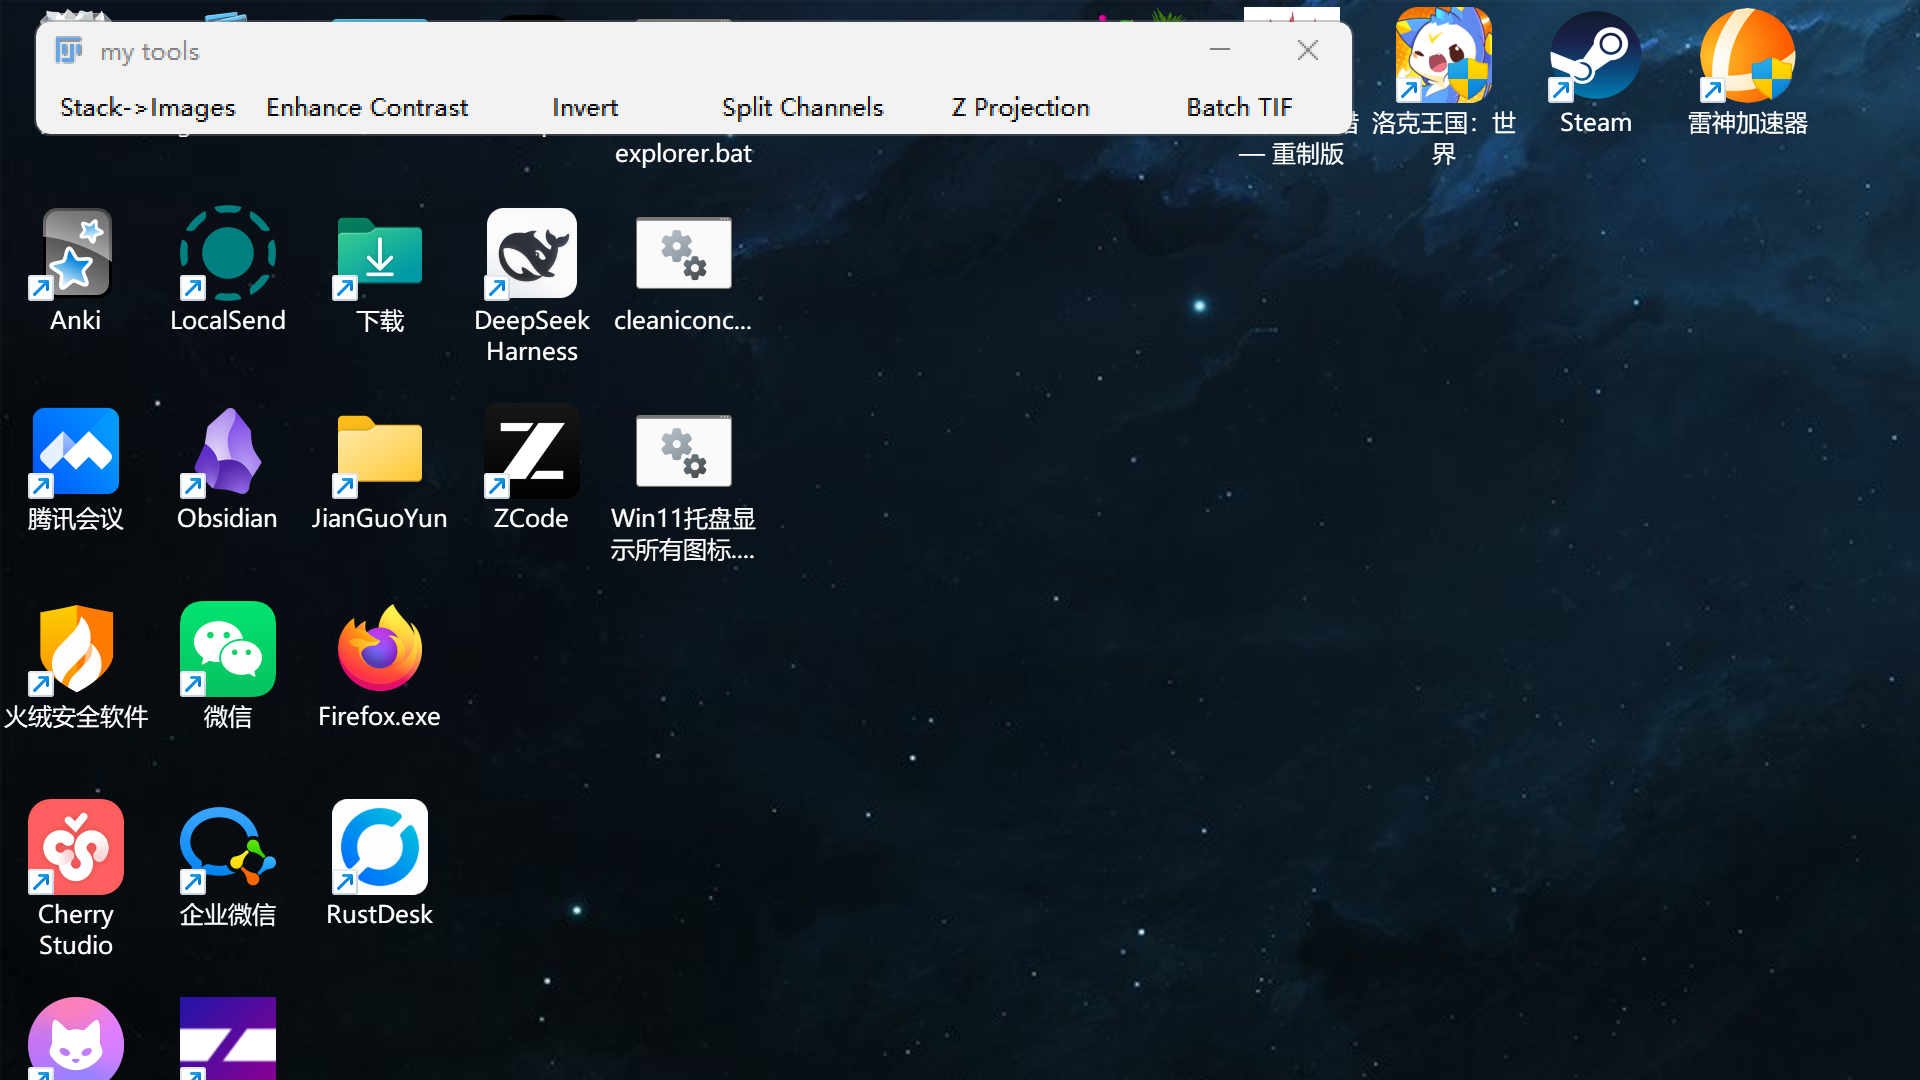
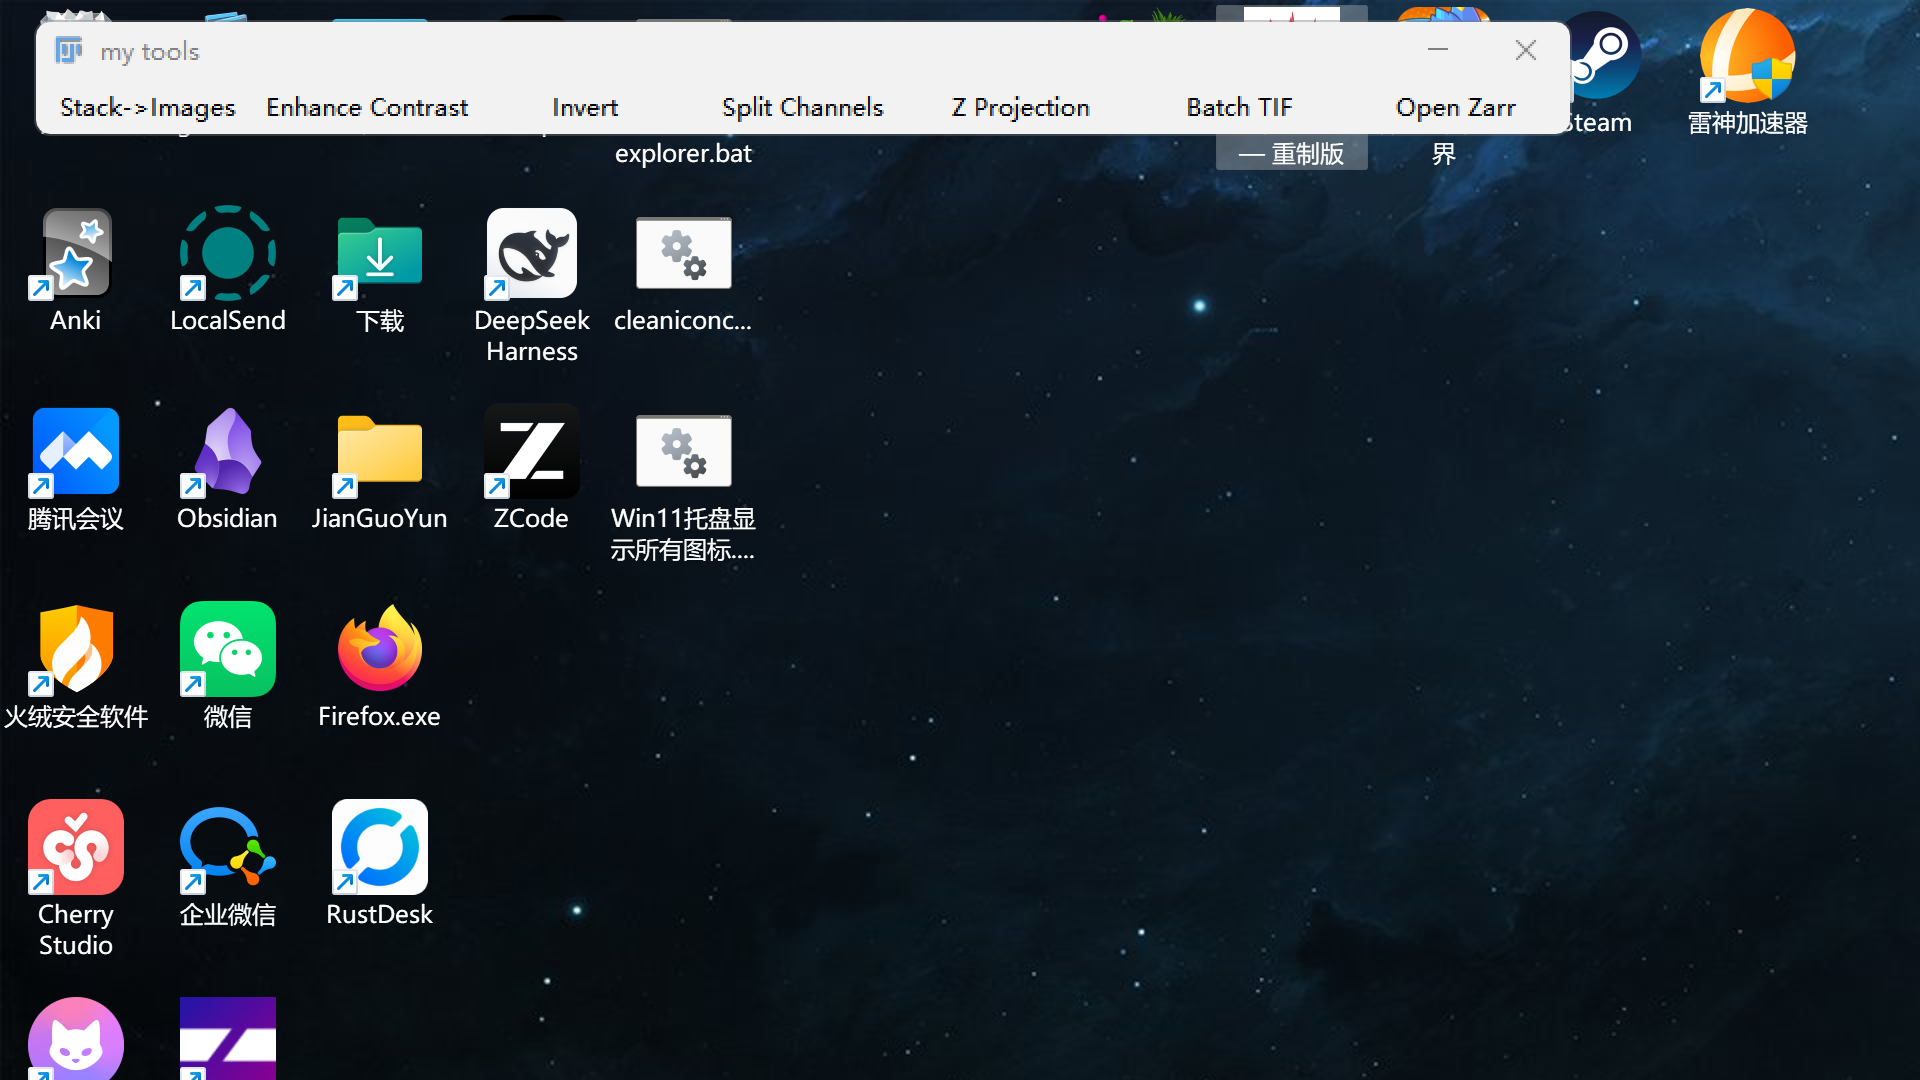
验收2条修复：Batch TIF零输出（宏open()对OME-TIFF脆+无try/catch→按钮改BeanShell真容错）；zarr选框只认文件→新增Open Zarr键(n5=参数,一次OK)；bar升7键；PM§9同步

Changed region(s): [[0.625, 0.0, 0.8438, 0.1833], [0.625, 0.0, 0.6562, 0.0306]]

diff --git a/复核记录-验收2条处置-2026-10-25.md b/复核记录-验收2条处置-2026-10-25.md
@@ -1,0 +1,22 @@
+---
+title: 验收 2 条处置记录（Batch TIF 零输出 / zarr 打不开）
+版本: v1
+日期: 2026-10-25
+对象: 用户验收反馈（按钮栏✅、转换✅；Batch TIF 零输出❌、N5 选框无法选目录❌）
+判定: **✅ 两项已修复**（根因均取证；按钮栏升至 7 键）
+---
+
+# Q1 "Batch TIF"选择测试文件中任意目录, 均为0输出 <- 已修复（根因：宏语言缺陷，按钮改 BeanShell）
+
+- **根因取证（三步定位）**：① 细粒度插桩 `-batch` 跑批：第 1 个 TIFF 成功处理（out/ 有产物），**第 2 个文件（h5_…_CH(CF405)_CH1.ome.tif）的 `open()` 一步令宏当场终止**（日志停在 before-open）；② jython `IJ.openImage` 同文件 → **OK 2000×2000**（文件完好——是**宏语言 `open()` 对该 OME-TIFF 脆弱**，非数据问题）；③ try/catch 支持测试 → **宏语言不支持**（无法容错续跑）。
+- **修复**：Batch TIF 按钮由宏改为 **BeanShell 内建**（`arg=<bsh>`：JFileChooser 选目录 + `IJ.openImage` 逐文件真 try/catch + 失败收集 + JOptionPane 统计弹窗），逻辑与 BS3 已验证的批处理同 API。单文件失败不再中断批次。
+- 纯宏版 `06_batch_tif.ijm` 停用挂载（PM §9.1 已标注废弃原因），headless `batch_run.py` 仍为全格式鲁棒路径。
+
+# Q2 "File > Import > HDF5/N5/Zarr/OME-NGFF ..."选 zarr 目录无法打开（选框只认文件）<- 已修复（按钮栏新增 Open Zarr 键）
+
+- 现象确认：该菜单的 Swing 选框为文件模式，进入 .ome.zarr 目录后无"选择目录"动作——入口形态问题属实。
+- 修复：按钮栏新增第 7 键 **Open Zarr**：`getString` 输入/粘贴 zarr 目录路径 → `run("HDF5/N5/Zarr/OME-NGFF ...", "n5=[路径]")`。实测：参数被命令接受、弹出 ImageJ2 参数确认框（一次 OK 点击后打开）；**完全免点击**需补全 N5Importer 参数集（dataset 等名），留白待查。
+
+# 交付状态
+
+按钮栏现为 **7 键**（5 样例宏 + Batch TIF[bsh] + Open Zarr），已部署并重启验证（日志双行 + 截屏更新 `复核证据-B1-按钮栏现场.png`）。
